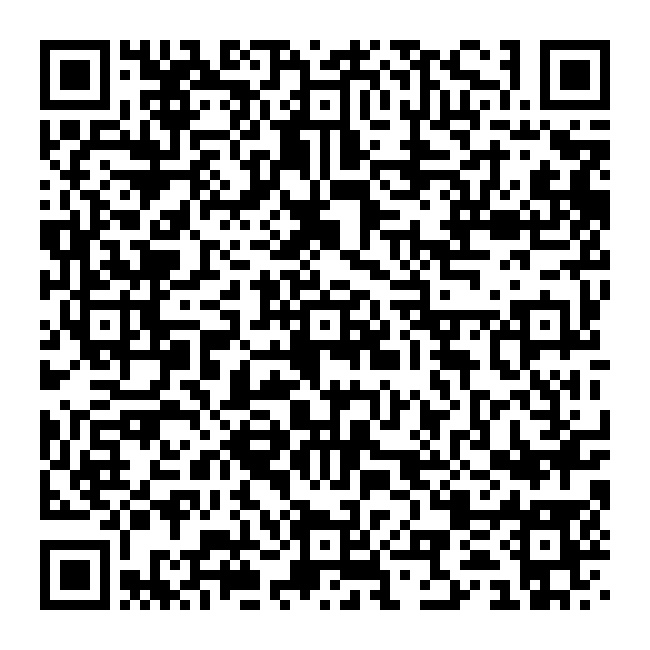
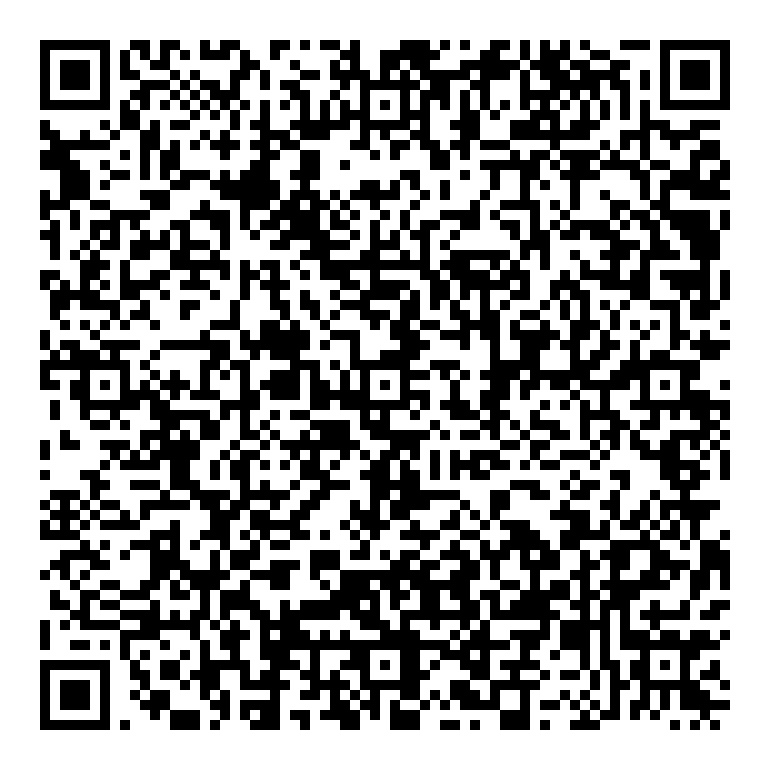
dalsi zmeny

diff --git a/menu.html b/menu.html
@@ -24,13 +24,12 @@
           <a href="/meteo/azimuty1.html">vyhlídka</a>
           <a href="/meteo/vypocet.html">json</a>
           <a href="/meteo/vypocetM.html">Moon</a>
-	      <a href="https://www.wunderground.com/dashboard/pws/ILEBSK6/graph/2026-06-16/2026-06-16/daily"
-	         title="meteo" class="stravaa">Dušan</a>
-		 	<a href="/meteo/dashboard.html">Dashboard</a>
-		     <a href="/meteo/grafy.html">Grafy</a>
-		     <a href="/meteo/cidla.html">Čidla</a>
-		     <a href="/meteo/sun.html">Slunce</a>
-		 	<a href="https://www.ventusky.com/cs/49.869;15.582" title="meteo" class="odkaz">ventusky, n: honza,psw: ventusky
+		  <a href="/meteo/grafy.html">Grafy</a>
+		  <a href="/meteo/cidla.html">Čidla</a>
+    	  <a href="/meteo/sun.html">Slunce</a>
+	      <a href="https://www.ventusky.com/cs/49.869;15.582" title="meteo" class="odkaz">ventusky, n: honza,psw: ventusky
+	  	  <a href="https://www.wunderground.com/dashboard/pws/ILEBSK6/graph/2026-06-16/2026-06-16/daily"
+	  	         title="meteo" class="stravaa">Dušan</a>
         </div>
       </div>
 
@@ -38,6 +37,7 @@
   	    <a href="denik.html">deník </a>
 
   	    <div class="submenu-items">
+		 <a href="Odecet.xlsx" download>Stáhnout odecet</a>
 	     <a href="zkratky.html">zkratky</a>
 	     <a href="architektura.html">architektura</a>
 	     <a href="studna.html">studna</a>
@@ -94,7 +94,7 @@
 	    <a href="/vlaky/index.html">&#128646 </a>
 
 	    <div class="submenu-items">
-	      <a href="/vcely/med.html">med</a>
+	      <p><a href="vlaky.html">vlaky</a>  <a href="geometrie-kolejiva-Piko-A-glei.pdf">kolejivo PIKO</a>
 	     
 	    </div>
 	  </div>
@@ -118,7 +118,7 @@
 	    <a href="/vesmir/index.html">&#129680  </a>
 
 	    <div class="submenu-items">
-	      <a href="/vcely/med.html">med</a>
+	      <a href="sextant.html">sextant</a> 
 	      
 	    </div>
 	  </div>
@@ -127,7 +127,12 @@
 	    <a href="/vcely/index.html">&#128029   </a>
 
 	    <div class="submenu-items">
-	      <a href="/vcely/med.html">med</a>
+		  <a href="/vcely/včely2025.xlsx" download="včely2025.xlsx">
+		    Stáhnout data ze včelína
+		  </a>
+		  
+		  <a href="/vcely/včely2025.xlsx" download>Stáhnout vcely2025</a>
+		  <a href="/vcely/med.html">med</a>
 	      <a href="/vcely/manual.pdf">medomet</a>
 	      <a href="/vcely/medovina.html">medovina</a>
 	      <a href="/vcely/jenter.html">jenter</a>

diff --git a/kontakt.html b/kontakt.html
@@ -12,8 +12,11 @@
     
    
    <pre>
-
-	  
+Jan Matuška
+📞 604 296 449
+✉ jiljiklen@gmail.com, janmatuska@centrum.cz
+🌐 http://jiljiklen.eu/index.html
+📍 Žlebské Chvalovice 80, GPS 49.8922106 N,15.5592397 E
 	<img src="../img/qr_kontakt.jpg" alt="end" width="600">
 	   
 	

diff --git a/vlaky/index.html b/vlaky/index.html
@@ -11,7 +11,6 @@
     <!-- místo pro menu -->
     <div id="menu"></div>
     <h1>vlaky</h1>
-   <p><a href="vlaky.html">vlaky</a>  <a href="geometrie-kolejiva-Piko-A-glei.pdf">kolejivo PIKO</a>
    
    <p>Příprava na modelové kolejiště</p>
     <script src="../js/menu.js"></script>

diff --git a/vesmir/index.html b/vesmir/index.html
@@ -10,7 +10,7 @@
     <!-- místo pro menu -->
     <div id="menu"></div>
     <h1>vesmir</h1>
-<a href="sextant.html">sextant</a> 
+
   <pre>
 Vera C. Rubin Observatory
 
